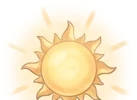
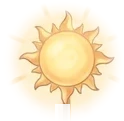
Build 417: Herbology light fixes: sunbeams now come from each big window in its own shape (two panes split by the bar, slanting into the room) instead of fixed spots (her «свет из окна ты плохо положил»); the hanging sun lamp is a round soft sprite fading out at its edges, no more cut-off square hal

diff --git a/js/game.js b/js/game.js
@@ -2,12 +2,12 @@
 import {
   OFFLINE_CAP_SEC, MAX_DESKS, MAX_ITEM_LEVEL, MAX_TEACHER_LEVEL, MAX_TIME_LEVEL,
   CLASSES, SPECIES, NAMES, MISSIONS, WORLDS, WORLD, META,
-} from './data.js?v=416';
-import { EMOJI_RE, emojiImage, preloadEmoji, watchEmoji, emojiHtml } from './emoji.js?v=416';
-import { initMinigame } from './minigame.js?v=416';
-import { initChests } from './chests.js?v=416';
-import { initLore } from './lore.js?v=416';
-import { initAvatar } from './avatar.js?v=416';
+} from './data.js?v=417';
+import { EMOJI_RE, emojiImage, preloadEmoji, watchEmoji, emojiHtml } from './emoji.js?v=417';
+import { initMinigame } from './minigame.js?v=417';
+import { initChests } from './chests.js?v=417';
+import { initLore } from './lore.js?v=417';
+import { initAvatar } from './avatar.js?v=417';
 // mini-game «Зельеварка» (match-3, js/minigame.js): a pill on the main screen, its own overlay; the school keeps living under it
 const MG = initMinigame({ state: () => S, earn: (n) => earn(n), save: () => save(), toast: (t) => toast(t), fmt: (n) => fmt(n), emojiHtml, emojiImage,
   audioOut: () => { if (!sfxOn() || document.hidden) return null; const c = audio(); return c && c.state === 'running' ? { c, out: AOUT } : null; },
@@ -30,7 +30,7 @@ const LORE = initLore({ state: () => S, save: () => save(), emojiHtml, on: () =>
 const SAVE_KEY = WORLD === 1 ? 'magicschool.save.v2' : 'magicschool.save.v2.w' + WORLD;   // every world keeps its own save
 const saveKeyOf = (w) => (w === 1 ? 'magicschool.save.v2' : 'magicschool.save.v2.w' + w);
 const VERSION = '0.9';
-const BUILD = 416;   // keep equal to the ?v= number in index.html
+const BUILD = 417;   // keep equal to the ?v= number in index.html
 const $ = (s, r = document) => r.querySelector(s);
 const rnd = (a) => a[Math.floor(Math.random() * a.length)];
 
@@ -3358,7 +3358,7 @@ function hangIso(c, th, n, s, side, t0, lo) {
   c.save(); c.translate(m.x, m.y); if (side === 'y0') c.scale(-1, 1);
   c.shadowColor = 'rgba(55,35,80,0.35)'; c.shadowBlur = 3 * k; c.shadowOffsetX = (side === 'y0' ? -1.2 : 1.2) * k; c.shadowOffsetY = 1.8 * k;
   c.drawImage(im, -sw / 2, -sh / 2, sw, sh); c.restore();
-  if (n === 'bigwin') HERBS_WINS.set(Math.round(m.x) + ',' + Math.round(m.y), { x: m.x, y: m.y, sw, sh, flip: side === 'y0' });
+  if (n === 'bigwin') HERBS_WINS.set(Math.round(m.x) + ',' + Math.round(m.y), { x: m.x, y: m.y, sw, sh, flip: side === 'y0', side, tm, s0: s.x0 + ',' + s.y0 });
   return true;
 }
 function hang(c, th, n, s, side, t0, lo) {
@@ -3408,7 +3408,7 @@ function drawWallDecor(c, id) {
 // furniture of a themed class: corners at the back, a bookcase by the left wall, small things in the free strip in front
 // ---- redesigned rooms: built-in, staged furnishing items (stage 0 = not bought, 1 = lvl 1-9, 2 = 10-24, 3 = 25-39, 4 = 40)
 const ITEM_IMS = {};
-function itemIm(n) { let im = ITEM_IMS[n]; if (!im) { im = ITEM_IMS[n] = new Image(); im.src = `assets/parts/items/${n}.webp?v=1`; } return im.complete && im.naturalWidth ? im : null; }
+function itemIm(n) { let im = ITEM_IMS[n]; if (!im) { im = ITEM_IMS[n] = new Image(); im.src = `assets/parts/items/${n}.webp?v=2`; } return im.complete && im.naturalWidth ? im : null; }
 const stageOf = (lv) => (!lv ? 0 : lv < 10 ? 1 : lv < 25 ? 2 : lv < 40 ? 3 : 4);
 function itemDraw(n, x, y, h, o = {}) {   // a sprite standing on tile (x, y): bottom-centre on the floor point, lift = px above the floor
   const im = itemIm(n); if (!im) return null; const p = P(x, y), w = h * im.naturalWidth / im.naturalHeight, top = p.y + (o.down || 0) - (o.lift || 0) - h;
@@ -3423,8 +3423,10 @@ const ROOM_ART = {
     const depth = s.y1 - s.y0, W = s.x1 - s.x0, free = s.y0 + (frontFacing(i) ? 1.9 : 2.5) + (Math.ceil(maxDesksOf(i) / 3) - 1) * 1.2 + 1.0;
     const wallEnd = Math.min(s.y1 - 1.0, free);   // the left wall is free from the bookcase to the side table
     // sunbeams from the windows across the floor (day)
-    const dl = daylight(); if (dl > 0) add(s.x0 + 0.2, s.y0 + 0.2, () => { ctx.save(); ctx.globalCompositeOperation = 'lighter'; ctx.globalAlpha = 0.24 * dl;
-      for (const yb of [s.y0 + 1.2, s.y0 + Math.min(depth - 1.5, 3.6)]) { const a = P(s.x0, yb), b = P(s.x0, yb + 0.9), c = P(s.x0 + Math.min(W - 0.5, 4.5), yb + 1.6), d = P(s.x0 + Math.min(W - 0.5, 4.5), yb + 0.7); const g = ctx.createLinearGradient(a.x, a.y, c.x, c.y); g.addColorStop(0, 'rgba(255,220,150,1)'); g.addColorStop(1, 'rgba(255,220,150,0)'); ctx.fillStyle = g; ctx.beginPath(); ctx.moveTo(a.x, a.y); ctx.lineTo(b.x, b.y); ctx.lineTo(c.x, c.y); ctx.lineTo(d.x, d.y); ctx.closePath(); ctx.fill(); }
+    const dl = daylight(); if (dl > 0) add(s.x0 + 0.05, s.y0 + 0.05, () => { ctx.save(); ctx.globalCompositeOperation = 'lighter';   // each window throws its own light onto the floor: two panes split by the bar, slanting into the room
+      for (const wv of HERBS_WINS.values()) { if (wv.s0 !== s.x0 + ',' + s.y0) continue; const hw = DECOR.bigwin.w / 2, len = Math.min(3.2, (wv.side === 'x0' ? W : depth) - 1), sk = 0.9;
+        for (const [u0, u1] of [[-hw * 0.85, -0.06], [0.06, hw * 0.85]]) { const Q = (u, v) => (wv.side === 'x0' ? P(s.x0 + v, wv.tm + u + v * sk * 0.35) : P(wv.tm + u + v * sk * 0.35, s.y0 + v)); const a = Q(u0, 0.05), b = Q(u1, 0.05), c = Q(u1, len), d = Q(u0, len);
+          const g = ctx.createLinearGradient(a.x, a.y, (c.x + d.x) / 2, (c.y + d.y) / 2); g.addColorStop(0, `rgba(255,224,160,${0.34 * dl})`); g.addColorStop(1, 'rgba(255,224,160,0)'); ctx.fillStyle = g; ctx.beginPath(); ctx.moveTo(a.x, a.y); ctx.lineTo(b.x, b.y); ctx.lineTo(c.x, c.y); ctx.lineTo(d.x, d.y); ctx.closePath(); ctx.fill(); } }
       ctx.restore(); });
     // planters along the left wall
     const sp = stageOf(lv('pots')), plH = 46, units = [];

diff --git a/index.html b/index.html
@@ -12,7 +12,7 @@
 <link rel="manifest" href="manifest.webmanifest">
 <link rel="apple-touch-icon" href="icons/icon-180.png?v=2">
 <link rel="icon" href="icons/icon-192.png?v=2">
-<link rel="stylesheet" href="style.css?v=416">
+<link rel="stylesheet" href="style.css?v=417">
 <script>/* iOS home-screen app: innerHeight / 100% / 100dvh are short by the status bar, a strip stayed at the bottom (her screenshots, builds 200-203); use the real screen height */
 (function(){function fit(){if(!(navigator.standalone||matchMedia('(display-mode: standalone)').matches))return;var h=Math.max(window.innerHeight,(Math.abs(window.orientation||0)===90?screen.width:screen.height));var r=document.documentElement;r.style.height=h+'px';if(document.body){document.body.style.height=h+'px';document.body.style.bottom='auto';}}fit();addEventListener('DOMContentLoaded',fit);addEventListener('resize',fit);addEventListener('orientationchange',function(){setTimeout(fit,300);});})();</script>
 </head>
@@ -72,6 +72,6 @@ setTimeout(function(){ if (window.__booted) return; var d=document.createElement
   d.querySelector('button').onclick=function(){ location.reload(); }; document.body.appendChild(d); }, 12000);
 if(!CanvasRenderingContext2D.prototype.roundRect){CanvasRenderingContext2D.prototype.roundRect=function(x,y,w,h){this.rect(x,y,w,h);};}
 </script>
-<script type="module" src="js/game.js?v=416"></script>
+<script type="module" src="js/game.js?v=417"></script>
 </body>
 </html>

diff --git a/js/emoji.js b/js/emoji.js
@@ -1,6 +1,6 @@
 // One emoji look on every device: emoji characters are replaced by bundled Twemoji pictures
 // (CC-BY 4.0, https://github.com/jdecked/twemoji), both in the page (DOM) and on the canvas.
-import { EMOJI_FILES } from './emoji-set.js?v=416';
+import { EMOJI_FILES } from './emoji-set.js?v=417';
 
 export const EMOJI_RE = /\p{Extended_Pictographic}(?:|\p{Extended_Pictographic}?|[\u{1F3FB}-\u{1F3FF}])*/gu;
 
